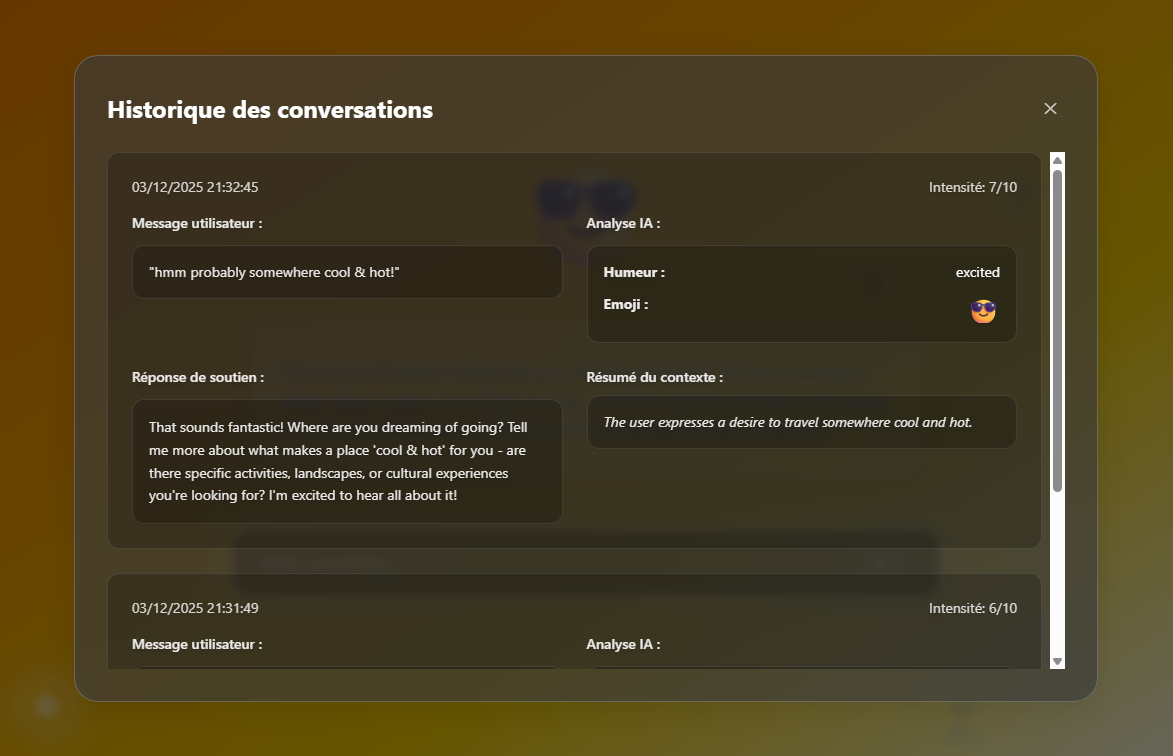
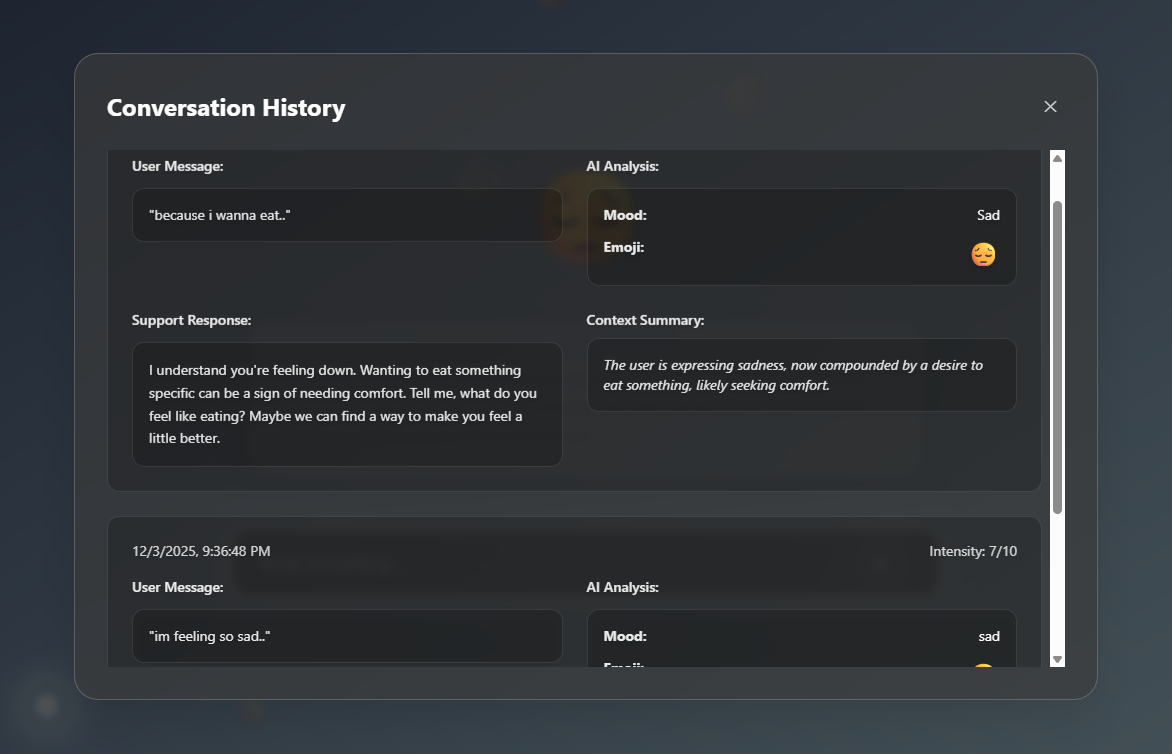
Updated README and added english full support

diff --git a/src/renderer/components/ui/history/ConversationHistory.tsx b/src/renderer/components/ui/history/ConversationHistory.tsx
@@ -1,24 +1,29 @@
 import React from "react";
 import { ConversationEntry } from "../../types/types";
+import { translations } from "../../../../utils/translations";
 
 interface ConversationHistoryProps {
   isOpen: boolean;
   onClose: () => void;
   history: ConversationEntry[];
+  language: 'fr' | 'en';
 }
 
-const ConversationHistory = ({ isOpen, onClose, history }: ConversationHistoryProps) => {
+const ConversationHistory = ({ isOpen, onClose, history, language }: ConversationHistoryProps) => {
+  const t = translations[language];
+  const dateLocale = language === 'fr' ? 'fr-FR' : 'en-US';
+
   if (!isOpen) return null;
 
   return (
     <div className="container-popup">
       <div className="container-glass max-w-5xl w-full mx-4 max-h-[85vh] overflow-hidden flex flex-col hover-lift">
         <div className="flex justify-between items-center mb-6">
-          <h2 className="text-title">Historique des conversations</h2>
+          <h2 className="text-title">{t.historyTitle}</h2>
           <button
             onClick={onClose}
             className="btn-close"
-            title="Fermer"
+            title={t.close}
           >
             ✕
           </button>
@@ -26,7 +31,7 @@ const ConversationHistory = ({ isOpen, onClose, history }: ConversationHistoryPr
         <div className="layout-history">
           {history.length === 0 ? (
             <div className="layout-empty">
-              <p className="text-secondary text-lg">Aucune conversation sauvegardée.</p>
+              <p className="text-secondary text-lg">{t.noHistory}</p>
             </div>
           ) : (
             history.map((entry) => (
@@ -34,37 +39,37 @@ const ConversationHistory = ({ isOpen, onClose, history }: ConversationHistoryPr
                 <div className="flex justify-between items-start mb-4">
                   <div>
                     <p className="text-secondary text-sm">
-                      {new Date(entry.timestamp).toLocaleString('fr-FR')}
+                      {new Date(entry.timestamp).toLocaleString(dateLocale)}
                     </p>
                   </div>
                   <div className="text-right">
-                    <p className="text-secondary text-sm">Intensité: {entry.geminiResponse.intensity}/10</p>
+                    <p className="text-secondary text-sm">{t.intensity}: {entry.geminiResponse.intensity}/10</p>
                   </div>
                 </div>
 
                 <div className="container-history-grid">
                   <div>
-                    <h4 className="font-medium text-sm text-white/90 mb-3 drop-shadow-md">Message utilisateur :</h4>
+                    <h4 className="font-medium text-sm text-white/90 mb-3 drop-shadow-md">{t.userMessage}:</h4>
                     <p className="container-history-item text-white/90">"{entry.userMessage}"</p>
                   </div>
 
                   <div>
-                    <h4 className="font-medium text-sm text-white/90 mb-3 drop-shadow-md">Analyse IA :</h4>
+                    <h4 className="font-medium text-sm text-white/90 mb-3 drop-shadow-md">{t.aiAnalysis}:</h4>
                     <div className="container-history-item space-y-3">
-                      <div className="flex justify-between"><strong className="text-white/90">Humeur :</strong> <span className="text-white">{entry.geminiResponse.mood}</span></div>
-                      <div className="flex justify-between"><strong className="text-white/90">Emoji :</strong> <span className="text-2xl">{entry.geminiResponse.emoji}</span></div>
+                      <div className="flex justify-between"><strong className="text-white/90">{t.mood}:</strong> <span className="text-white">{entry.geminiResponse.mood}</span></div>
+                      <div className="flex justify-between"><strong className="text-white/90">{t.emoji}:</strong> <span className="text-2xl">{entry.geminiResponse.emoji}</span></div>
                     </div>
                   </div>
 
                   <div>
-                    <h4 className="font-medium text-sm text-white/90 mb-3 drop-shadow-md">Réponse de soutien :</h4>
+                    <h4 className="font-medium text-sm text-white/90 mb-3 drop-shadow-md">{t.supportResponse}:</h4>
                     <div className="container-history-item container-history-text text-white/90">
                       {entry.geminiResponse.supportMessage}
                     </div>
                   </div>
 
                   <div>
-                    <h4 className="font-medium text-sm text-white/90 mb-2 drop-shadow-md">Résumé du contexte :</h4>
+                    <h4 className="font-medium text-sm text-white/90 mb-2 drop-shadow-md">{t.contextSummary}:</h4>
                     <p className="container-history-item italic text-white/90 ">
                       {entry.contextSummary}
                     </p>

diff --git a/src/renderer/components/ui/history/HistoryButton.tsx b/src/renderer/components/ui/history/HistoryButton.tsx
@@ -1,25 +1,28 @@
 import React, { useState } from "react";
 import { StorageManager } from "../../../classes";
 import { ConfirmationPopup } from "@ui";
+import { translations } from "../../../../utils/translations";
 
 interface HistoryButtonProps {
   onShowHistory: () => void;
   onClose: () => void;
   onClearHistory: () => void;
+  language: 'fr' | 'en';
 }
 
-const HistoryButton = ({ onShowHistory, onClose, onClearHistory }: HistoryButtonProps) => {
+const HistoryButton = ({ onShowHistory, onClose, onClearHistory, language }: HistoryButtonProps) => {
   const [showConfirmPopup, setShowConfirmPopup] = useState(false);
+  const t = translations[language];
 
   const handleClearHistory = () => {
     setShowConfirmPopup(true);
   };
 
-const confirmClearHistory = () => {
-  const storage = new StorageManager();
-  storage.clear();
-  onClearHistory();
-};
+  const confirmClearHistory = () => {
+    const storage = new StorageManager();
+    storage.clear();
+    onClearHistory();
+  };
 
   return (
     <>
@@ -31,13 +34,13 @@ const confirmClearHistory = () => {
           }}
           className="btn-primary w-full"
         >
-          Voir l'historique des conversations
+          {t.viewHistory}
         </button>
         <button
           onClick={handleClearHistory}
           className="btn-secondary w-full"
         >
-          Effacer l'historique
+          {t.clearHistory}
         </button>
       </div>
 
@@ -45,10 +48,10 @@ const confirmClearHistory = () => {
         isOpen={showConfirmPopup}
         onClose={() => setShowConfirmPopup(false)}
         onConfirm={confirmClearHistory}
-        title="Confirmer la suppression"
-        message="Êtes-vous sûr de vouloir effacer tout l'historique des conversations ? Cette action est irréversible."
-        confirmText="Effacer"
-        cancelText="Annuler"
+        title={t.confirmDelete}
+        message={t.confirmDeleteMessage}
+        confirmText={t.delete}
+        cancelText={t.cancel}
       />
     </>
   );

diff --git a/src/utils/translations.tsx b/src/utils/translations.tsx
@@ -4,11 +4,45 @@ export const translations = {
     loading: "⏳",
     error: "Impossible de récupérer une réponse pour le moment.",
     switchTo: "Passer en",
+    // History
+    historyTitle: "Historique des conversations",
+    close: "Fermer",
+    noHistory: "Aucune conversation sauvegardée.",
+    intensity: "Intensité",
+    userMessage: "Message utilisateur",
+    aiAnalysis: "Analyse IA",
+    mood: "Humeur",
+    emoji: "Emoji",
+    supportResponse: "Réponse de soutien",
+    contextSummary: "Résumé du contexte",
+    viewHistory: "Voir l'historique des conversations",
+    clearHistory: "Effacer l'historique",
+    confirmDelete: "Confirmer la suppression",
+    confirmDeleteMessage: "Êtes-vous sûr de vouloir effacer tout l'historique des conversations ? Cette action est irréversible.",
+    delete: "Effacer",
+    cancel: "Annuler",
   },
   en: {
     placeholder: "Write something...",
     loading: "⏳",
     error: "Unable to retrieve a response at the moment.",
     switchTo: "Switch to",
+    // History
+    historyTitle: "Conversation History",
+    close: "Close",
+    noHistory: "No saved conversations.",
+    intensity: "Intensity",
+    userMessage: "User Message",
+    aiAnalysis: "AI Analysis",
+    mood: "Mood",
+    emoji: "Emoji",
+    supportResponse: "Support Response",
+    contextSummary: "Context Summary",
+    viewHistory: "View conversation history",
+    clearHistory: "Clear history",
+    confirmDelete: "Confirm deletion",
+    confirmDeleteMessage: "Are you sure you want to clear all conversation history? This action cannot be undone.",
+    delete: "Delete",
+    cancel: "Cancel",
   },
 };

diff --git a/src/renderer/components/ui/popups/SettingsPopup.tsx b/src/renderer/components/ui/popups/SettingsPopup.tsx
@@ -1,6 +1,7 @@
 import React from "react";
 import { LanguageSelector, ModelSelector, TypewriterSpeedControl } from "../settings";
 import { HistoryButton } from "../history";
+import { translations } from "../../../../utils/translations";
 
 interface SettingsPopupProps {
   isOpen: boolean;
@@ -16,16 +17,17 @@ interface SettingsPopupProps {
 }
 
 const SettingsPopup = ({ isOpen, onClose, language, onLanguageChange, typewriterSpeed, onTypewriterSpeedChange, selectedModel, onModelChange, onShowHistory, onClearHistory }: SettingsPopupProps) => {
+  const t = translations[language];
 
   return (
     <div className={`container-popup ${isOpen ? 'opacity-100' : 'opacity-0 pointer-events-none'}`}>
       <div className={`container-glass ${isOpen ? 'scale-100 translate-y-0' : 'scale-95 translate-y-4'}`}>
         <div className="flex justify-between items-center mb-6">
-          <h2 className="text-title">Paramètres</h2>
+          <h2 className="text-title">{language === 'fr' ? 'Paramètres' : 'Settings'}</h2>
           <button
             onClick={onClose}
             className="btn-close"
-            title="Fermer"
+            title={t.close}
           >
             ✕
           </button>
@@ -47,6 +49,7 @@ const SettingsPopup = ({ isOpen, onClose, language, onLanguageChange, typewriter
             onShowHistory={onShowHistory}
             onClose={onClose}
             onClearHistory={onClearHistory}
+            language={language}
           />
         </div>
       </div>

diff --git a/src/renderer/components/ui/popups/ConfirmationPopup.tsx b/src/renderer/components/ui/popups/ConfirmationPopup.tsx
@@ -16,8 +16,8 @@ const ConfirmationPopup = ({
   onConfirm,
   title,
   message,
-  confirmText = "Confirmer",
-  cancelText = "Annuler"
+  confirmText = "Confirm",
+  cancelText = "Cancel"
 }: ConfirmationPopupProps) => {
   const handleConfirm = () => {
     onConfirm();

diff --git a/src/renderer/components/MainInterface.tsx b/src/renderer/components/MainInterface.tsx
@@ -111,6 +111,7 @@ const MainInterface: React.FC<MainInterfaceProps> = ({
         isOpen={showHistory}
         onClose={onHistoryClose}
         history={conversationHistory}
+        language={language}
       />
     </div>
   );
